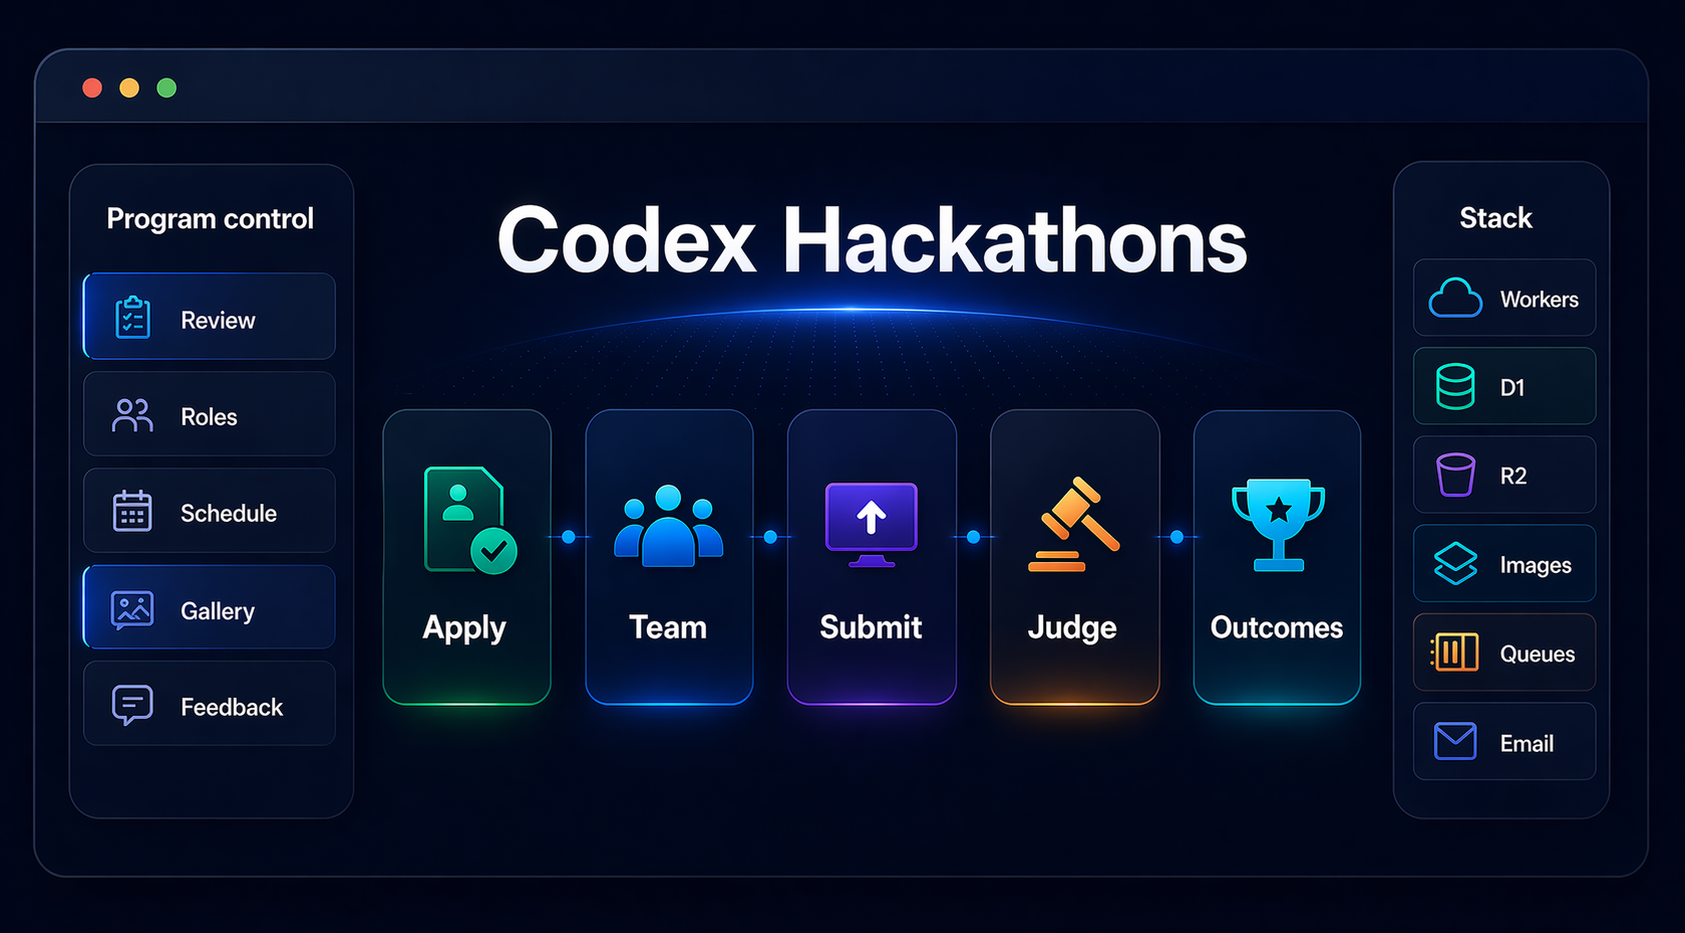
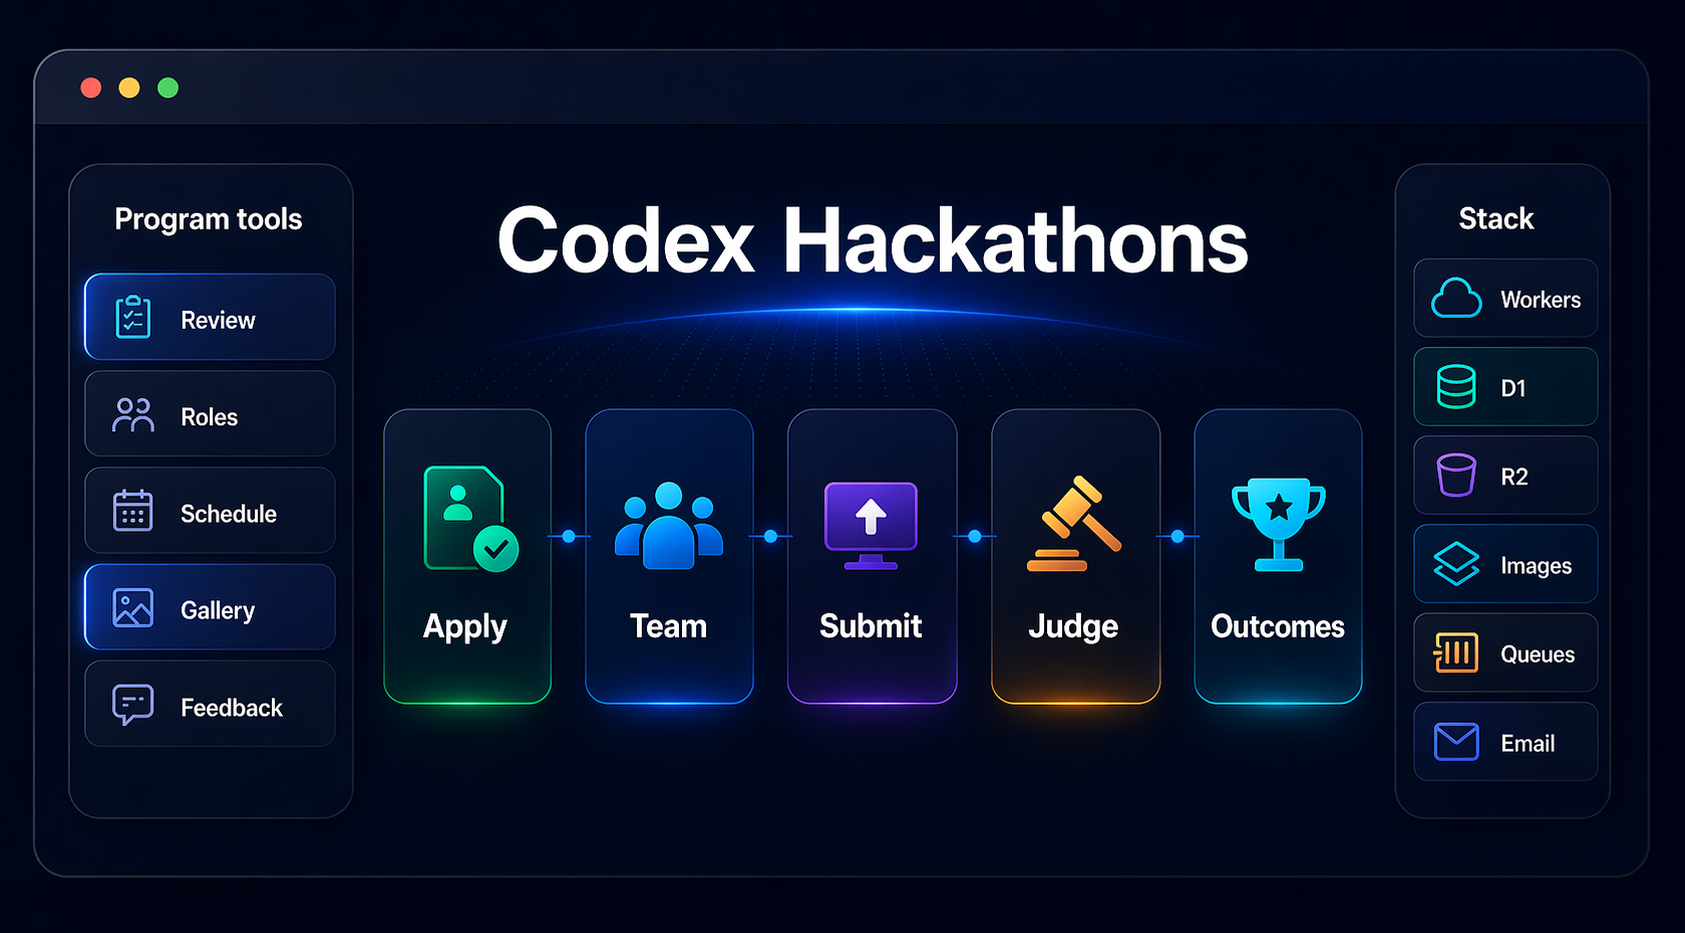
TASK-289 - Polish README presentation with visual hierarchy and assets

diff --git a/README.md b/README.md
@@ -5,11 +5,11 @@
 <h1 align="center">Codex Hackathons</h1>
 
 <p align="center">
-  <strong>Self-hosted hackathon operations for teams that need real control, real workflows, and repeatable event execution.</strong>
+  <strong>A self-hosted hackathon workspace for teams that want clear paths from registration to results.</strong>
 </p>
 
 <p align="center">
-  Run applications, teams, submissions, judging, winners, prizes, galleries, feedback, and event operations from one platform on infrastructure you control.
+  Coordinate applications, teams, submissions, judging, winners, prizes, galleries, and feedback from one place, on infrastructure you choose.
 </p>
 
 <p align="center">
@@ -32,41 +32,42 @@
 </p>
 
 <p align="center">
+  <sub>Platform overview</sub><br />
   <img src="docs/assets/readme/generated-platform-overview.png" width="100%" alt="Codex Hackathons platform overview" />
 </p>
 
 ---
 
-## Built For Serious Hackathon Programs
+## A Shared Workspace For Hackathons
 
-Codex Hackathons is for organizations that have outgrown forms, spreadsheets, manual judge sheets, event-tool exports, email threads, and one-off admin scripts. It gives community, developer-relations, research, accelerator, and internal innovation teams one operating system for recurring or parallel hackathons.
+Codex Hackathons helps teams replace scattered forms, spreadsheets, judge sheets, event-tool exports, email threads, and one-off scripts with a shared workspace for recurring or parallel hackathons.
 
 <table>
   <tr>
     <td width="33%">
-      <strong>Own the full event lifecycle</strong><br />
+      <strong>Keep each event understandable</strong><br />
       Manage applications, approvals, teams, submissions, judging, winners, prizes, galleries, and post-event feedback without stitching tools together.
     </td>
     <td width="33%">
-      <strong>Operate multiple hackathons</strong><br />
+      <strong>Reuse the same foundation</strong><br />
       Users keep reusable platform accounts while each hackathon has its own schedule, rules, roles, terms, teams, submissions, judging, and outcomes.
     </td>
     <td width="33%">
-      <strong>Keep control of the data</strong><br />
-      Run the platform in your own Cloudflare and Auth0 environment, with authorization and competition state owned by the application data model.
+      <strong>Choose where it runs</strong><br />
+      Deploy the platform in your Cloudflare and Auth0 environment, with authorization and competition state stored in the application data model.
     </td>
   </tr>
 </table>
 
-## Why Teams Choose It
+## What It Helps With
 
-| Capability | What operators get |
+| Capability | How it helps |
 | --- | --- |
 | **Application-first participation** | Per-hackathon registration windows, profile requirements, application terms, approvals, participant decision emails, and optional Luma attendance integration. |
 | **Built-in team workflows** | Solo participation, team creation, join requests, team admins, team limits, and account-scoped team workspaces. |
 | **Structured submissions** | Submission windows, tracks, summaries, repository links, demo links, drafts, locking, withdrawal, and disqualification handling. |
-| **Serious judging** | Blind review, judge assignment, skipped-review redistribution, shortlist management, live pitch stages, pitch review, weighted scoring, and final deliberation. |
-| **Outcome operations** | Winner announcements, prize eligibility snapshots, winner emails, winner terms, legal-name collection, prize redemption tracking, and completed public showcases. |
+| **Structured judging** | Blind review, judge assignment, skipped-review redistribution, shortlist management, live pitch stages, pitch review, weighted scoring, and final deliberation. |
+| **Outcomes and follow-through** | Winner announcements, prize eligibility snapshots, winner emails, winner terms, legal-name collection, prize redemption tracking, and completed public showcases. |
 | **Clear permission boundaries** | Platform admins, hackathon admins, staff, judges, approved participants, team admins, and prize recipients are separate actors with explicit platform-data permissions. |
 | **Post-event learning** | Anonymous feedback collection after completion, with results available to the operating team. |
 
@@ -75,7 +76,7 @@ Codex Hackathons is for organizations that have outgrown forms, spreadsheets, ma
 <table>
   <tr>
     <th align="left">Public and participant experience</th>
-    <th align="left">Organizer operations</th>
+    <th align="left">Organizer workflows</th>
     <th align="left">Competition and outcomes</th>
   </tr>
   <tr>
@@ -83,7 +84,7 @@ Codex Hackathons is for organizations that have outgrown forms, spreadsheets, ma
       Public hackathon pages, schedules, tracks, prizes, registration, account onboarding, reusable profiles, application status, team formation, submissions, galleries, credits, shortlist visibility, and completed outcomes.
     </td>
     <td valign="top">
-      Platform-admin and hackathon-admin workflows, staff and judge assignments, staged application review, participant-facing emails, lifecycle controls, operational sync, audit-ready retention, and role-specific workspaces.
+      Platform-admin and hackathon-admin workflows, staff and judge assignments, staged application review, participant-facing emails, lifecycle transitions, event sync, durable records, and role-specific workspaces.
     </td>
     <td valign="top">
       Team-owned submissions, blind and pitch scoring, finalist boundaries, final ranking, prizes, winner communications, prize redemption, public winner showcases, published projects, galleries, and feedback reporting.
@@ -93,9 +94,9 @@ Codex Hackathons is for organizations that have outgrown forms, spreadsheets, ma
 
 ---
 
-## Operating Model
+## How It Runs
 
-You run Codex Hackathons in infrastructure you control. Auth0 owns authentication. Codex Hackathons owns authorization: platform roles, hackathon roles, team roles, application state, judging assignments, prize eligibility, and event operations live in platform data.
+Codex Hackathons runs in infrastructure you choose. Auth0 handles authentication. The platform handles authorization: platform roles, hackathon roles, team roles, application state, judging assignments, prize eligibility, and event history live in platform data.
 
 <p align="center">
   <img src="docs/assets/readme/operating-stack.svg" width="100%" alt="Codex Hackathons operating stack" />
@@ -115,7 +116,7 @@ The canonical deployment model uses:
 | **Auth0** | User authentication and linked identity resolution. |
 | **Luma** | Optional event guest verification, approval/rejection sync, and attendance webhooks. |
 
-The repository includes automation for the parts that should not be hand-maintained forever:
+The repository includes automation for recurring setup and maintenance:
 
 - Auth0 tenant drift checks and bootstrap commands for required app URLs, branding, custom domains, Actions, and account-linking callbacks.
 - First-platform-admin bootstrap commands.
@@ -123,9 +124,9 @@ The repository includes automation for the parts that should not be hand-maintai
 - Cloudflare queue, secret, migration, and deployment workflows.
 - A GitHub Release driven production deployment workflow.
 
-## Good Fit
+## Where It Fits
 
-Codex Hackathons is a good fit when your team needs to:
+Codex Hackathons is a good fit when your team wants to:
 
 - run multiple hackathons from the same platform;
 - review and approve participants before they enter the workspace;
@@ -133,22 +134,22 @@ Codex Hackathons is a good fit when your team needs to:
 - run blind judging, live pitches, or both;
 - keep admin, staff, judge, participant, and winner permissions explicit;
 - host on Cloudflare with your own Auth0 tenant and deployment pipeline;
-- keep participant data, competition state, and prize operations in one auditable system.
+- keep participant data, competition state, and prize follow-up in one consistent record.
 
-It is probably more platform than you need if you only want a single static event page, an RSVP form, or an unstructured showcase gallery.
+It may be more than you need if you only want a single static event page, an RSVP form, or an unstructured showcase gallery.
 
-## What Operators Need To Provide
+## What You Bring
 
-An adopter should plan for:
+Plan for:
 
 - a Cloudflare account with Workers, D1, R2, Images, Queues, Cron Triggers, DNS, Email Sending on a Workers Paid plan, and appropriate API tokens;
 - an Auth0 tenant and Regular Web Application for the platform;
 - an onboarded Cloudflare Email Service sending domain and verified sender address;
 - production and, if desired, shared development domains;
 - optional Luma API access when hackathons use Luma guest sync or attendance webhooks;
-- operational owners who can manage platform admins, hackathon admins, judges, staff, and release access.
+- people who can manage platform admins, hackathon admins, judges, staff, and release access.
 
-Environment-specific values are documented through [`.env.example`](.env.example), [`wrangler.jsonc`](wrangler.jsonc), and [`DEVELOPMENT.md`](DEVELOPMENT.md). The root README intentionally stays at the adopter and operator level rather than listing every runtime variable.
+Environment-specific values are documented through [`.env.example`](.env.example), [`wrangler.jsonc`](wrangler.jsonc), and [`DEVELOPMENT.md`](DEVELOPMENT.md). The root README stays at the adopter level rather than listing every runtime variable.
 
 ---
 